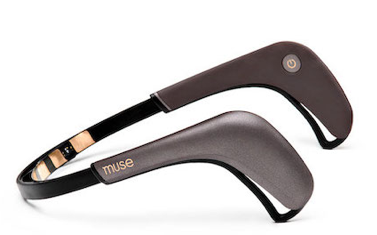
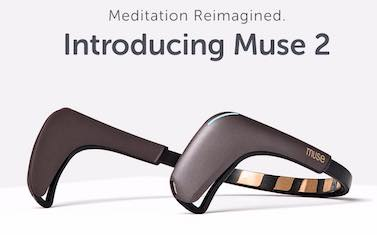
update muse 2 promo pic and fix formatting

diff --git a/index.html b/index.html
@@ -1299,6 +1299,7 @@
             </div>
           </div>
         </div>
+        <div class="container">
         <div class="row">
           <div class="col-xs-12">
             <div class="section-title text-center mb-60">
@@ -1343,9 +1344,9 @@
             </a>
           </div>
         </div>
+        </div>
         <br />
         <br />
-      </div>
     </section>
 
     <section id="blog">
